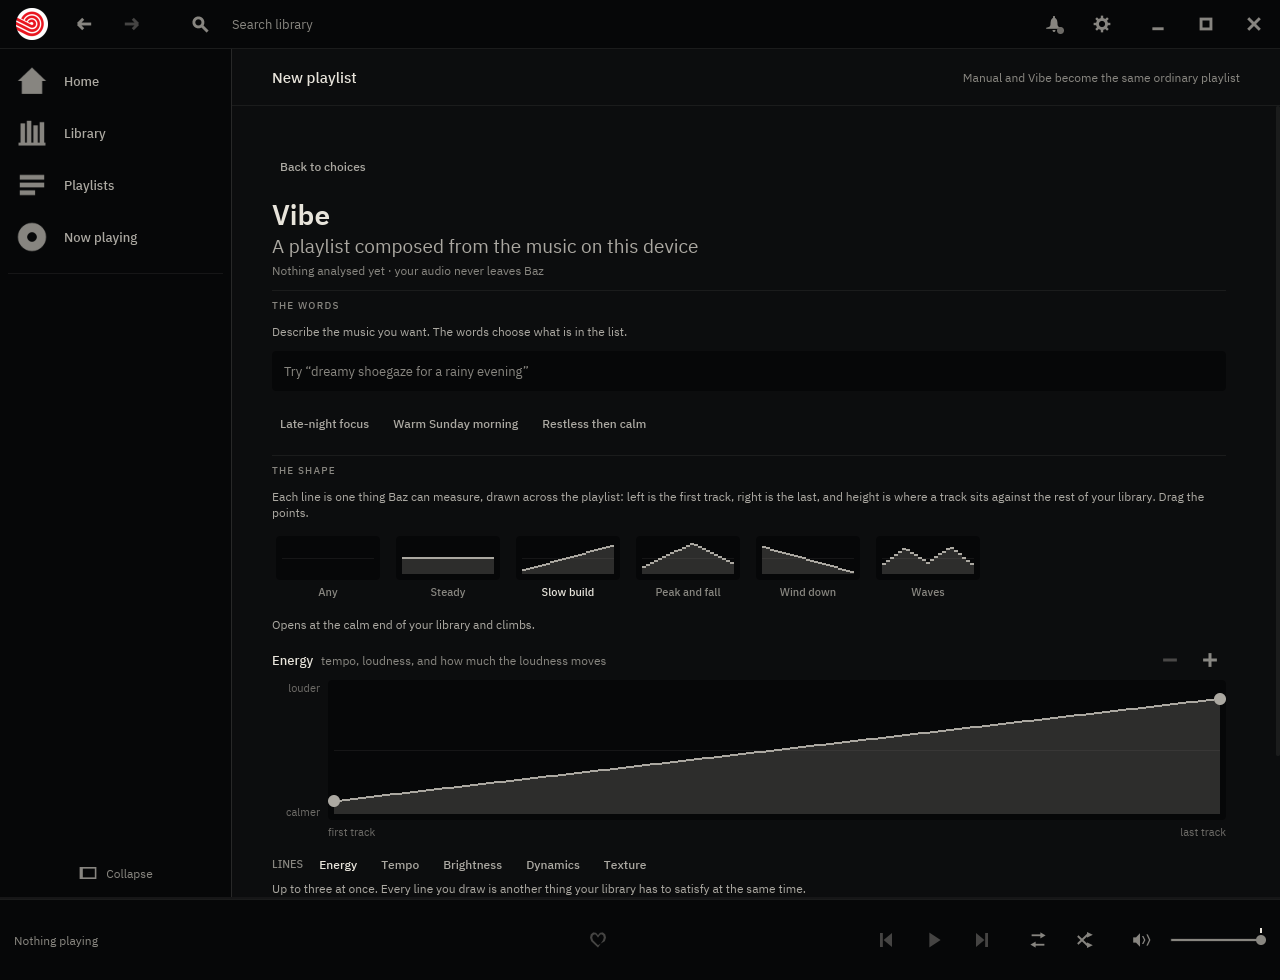
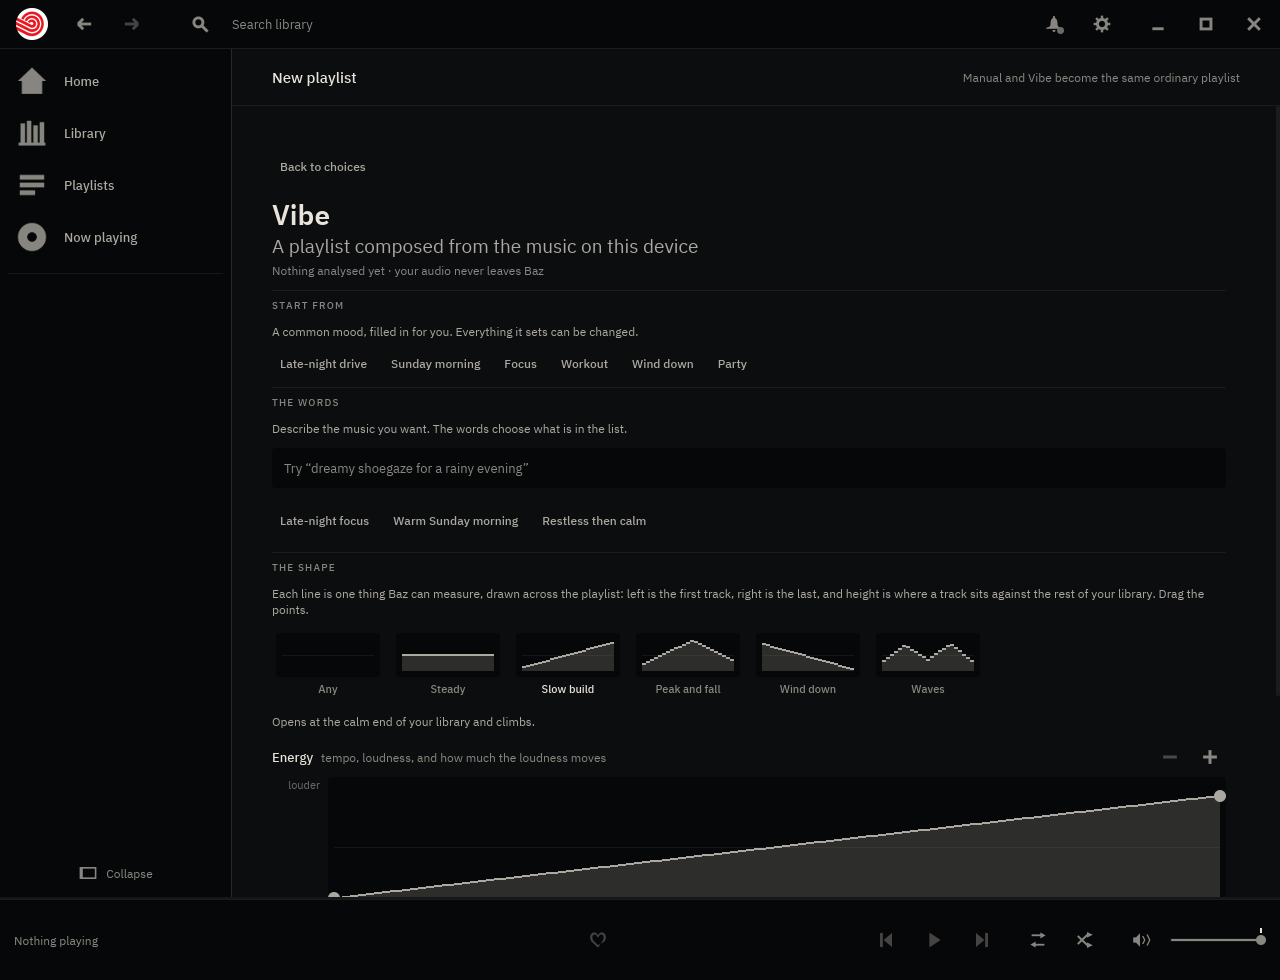
Six moods to start from, and the frames that show them
The contour form asked a listener to draw before it told them what a
drawing was for. `Recipe::ALL` puts six named starting points ahead of
it — an evening wind-down, a morning lift, focus, a drive, a late room,
a workout — each one a request line and a shape, so the first press
composes something rather than asking for a decision nobody has the
vocabulary for yet.

A recipe stops claiming the form the moment either half changes: the
chip is a starting point, not a mode, and `a_recipe_fills_the_request_
and_stops_claiming_it_the_moment_it_changes` is what holds that.

The capture frames are re-shot from the real binary against the varied
fixture, so the section is photographed with recipes present.

diff --git a/crates/baz/src/vibe.rs b/crates/baz/src/vibe.rs
@@ -328,6 +328,78 @@ impl Shape {
     }
 }
 
+/// **A recipe: a mood you can start from.**
+///
+/// The owner: *"we should have like 5-6 standard recipes — as part of the
+/// wizard we should be asking users if they want to make a preset one. as
+/// long as the presets are some really common moods and themes."*
+///
+/// A recipe is **words + a shape + a length**, which is the whole of a
+/// request, so pressing one fills the form and changes nothing else: every
+/// field stays editable, and a listener can take the words and redraw the
+/// line, or keep the line and retype the words. It is a starting point and
+/// never a mode.
+///
+/// The six are the moods people actually ask for rather than the ones that
+/// demonstrate the machinery. Each one's words are ordinary language — they
+/// go to the same text tower a typed request does — and each one's shape is
+/// one of the drawn presets, so a recipe explains itself in the picture as
+/// well as in its name.
+#[derive(Debug, Clone, Copy, PartialEq)]
+pub(crate) struct Recipe {
+    pub(crate) label: &'static str,
+    pub(crate) prompt: &'static str,
+    shape: usize,
+    pub(crate) length: MixLength,
+}
+
+impl Recipe {
+    /// Every recipe the wizard offers, in the order it offers them.
+    pub(crate) const ALL: [Self; 6] = [
+        Self {
+            label: "Late-night drive",
+            prompt: "warm hypnotic music for driving at night",
+            shape: 1,
+            length: MixLength::Hour,
+        },
+        Self {
+            label: "Sunday morning",
+            prompt: "gentle unhurried music for a slow morning",
+            shape: 2,
+            length: MixLength::Hour,
+        },
+        Self {
+            label: "Focus",
+            prompt: "calm instrumental music without vocals for concentrating",
+            shape: 1,
+            length: MixLength::NinetyMinutes,
+        },
+        Self {
+            label: "Workout",
+            prompt: "fast loud driving music with a hard pulse",
+            shape: 2,
+            length: MixLength::HalfHour,
+        },
+        Self {
+            label: "Wind down",
+            prompt: "quiet soft slow music for the end of the day",
+            shape: 4,
+            length: MixLength::HalfHour,
+        },
+        Self {
+            label: "Party",
+            prompt: "upbeat energetic danceable music",
+            shape: 3,
+            length: MixLength::TwoHours,
+        },
+    ];
+
+    /// The drawn shape this recipe starts from.
+    pub(crate) fn shape(self) -> Shape {
+        Shape::ALL[self.shape]
+    }
+}
+
 /// How many bands the library's own distribution is drawn in behind the line.
 ///
 /// Only the full build has a library to describe — a light one has no
@@ -564,6 +636,29 @@ impl State {
     /// The pointer entered or left one row of the preview.
     pub(crate) fn hover_row(&mut self, row: Option<usize>) {
         self.hovered_row = row;
+    }
+
+    /// **Start from a recipe**: its words, its shape and its length, all of
+    /// which remain editable. Nothing else is touched — a listener who has
+    /// already drawn extra lines keeps them, shaped by the recipe.
+    pub(crate) fn start_from(&mut self, recipe: Recipe) {
+        self.set_prompt(recipe.prompt);
+        self.set_shape(recipe.shape());
+        self.set_length(recipe.length);
+    }
+
+    /// Which recipe the request currently matches, if any — so the row can
+    /// light the one you started from and stop lighting it the moment you
+    /// change the words.
+    pub(crate) fn recipe(&self) -> Option<usize> {
+        Recipe::ALL.iter().position(|recipe| {
+            self.prompt == recipe.prompt
+                && self.length == recipe.length
+                && self
+                    .contour
+                    .lane(0)
+                    .is_some_and(|lane| lane.points == recipe.shape().points())
+        })
     }
 
     /// **Load a named shape onto every line.** A shape is a shape: asking for
@@ -1379,6 +1474,50 @@ mod tests {
                     _ => panic!("{} is a line on one side only at {at}", shape.label),
                 }
             }
+        }
+    }
+
+    /// **A recipe fills the form and leaves it editable**, which is the whole
+    /// of what makes it a starting point rather than a mode.
+    #[test]
+    fn a_recipe_fills_the_request_and_stops_claiming_it_the_moment_it_changes() {
+        let mut state = State::default();
+        assert_eq!(
+            state.recipe(),
+            None,
+            "nothing is a recipe until one is pressed"
+        );
+        for (index, recipe) in Recipe::ALL.iter().enumerate() {
+            state.start_from(*recipe);
+            assert_eq!(state.prompt, recipe.prompt);
+            assert_eq!(state.length, recipe.length);
+            assert_eq!(points(&state), recipe.shape().points());
+            assert_eq!(
+                state.recipe(),
+                Some(index),
+                "{} does not recognise itself",
+                recipe.label
+            );
+        }
+        // Change any one of the three and it is the listener's request.
+        state.start_from(Recipe::ALL[0]);
+        state.set_prompt("something else entirely");
+        assert_eq!(state.recipe(), None);
+        state.start_from(Recipe::ALL[0]);
+        state.drag_contour(0, 0, 0.0, 1.9);
+        assert_eq!(state.recipe(), None);
+        state.start_from(Recipe::ALL[0]);
+        state.set_length(MixLength::TwoHours);
+        assert_eq!(state.recipe(), None);
+
+        // Every recipe says something to the model and draws a real line.
+        for recipe in Recipe::ALL {
+            assert!(
+                recipe.prompt.split_whitespace().count() >= 4,
+                "{} asks the model for too little",
+                recipe.label
+            );
+            assert!(!recipe.shape().points().is_empty(), "{}", recipe.label);
         }
     }
 

diff --git a/crates/baz/src/views/new_playlist.rs b/crates/baz/src/views/new_playlist.rs
@@ -192,6 +192,17 @@ fn vibe_form<'a>(
         beside_facts: None,
     }));
 
+    // 0. **A mood to start from**, asked before anything is typed. A recipe
+    //    fills the words, the shape and the length and changes nothing else,
+    //    so the form it leaves behind is the one a listener would have filled
+    //    in themselves — and every field stays theirs to change.
+    form = form
+        .push(views::section_rule("Start from"))
+        .push(hint(
+            "A common mood, filled in for you. Everything it sets can be changed.",
+        ))
+        .push(recipes_row(state));
+
     // 1. **The words** — what goes in.
     form = form
         .push(views::section_rule("The words"))
@@ -548,6 +559,32 @@ fn stepper(
     .padding(theme::GAP_XS)
     .style(move |_theme| theme::tooltip(room))
     .into()
+}
+
+/// **The moods on offer**, as a row of pressable words. The one the request
+/// currently matches is lit, and it stops being lit the moment a word or a
+/// point is changed — because from then on the request is the listener's
+/// rather than the recipe's.
+fn recipes_row(state: &crate::vibe::State) -> Element<'_, Message> {
+    let room = theme::active();
+    let current = state.recipe();
+    let mut offered = row![].spacing(theme::GAP_SM);
+    for (index, recipe) in crate::vibe::Recipe::ALL.iter().enumerate() {
+        let lit = current == Some(index);
+        offered = offered.push(
+            button(
+                text(recipe.label)
+                    .size(theme::SIZE_META)
+                    .line_height(theme::LEADING_META)
+                    .font(theme::MEDIUM)
+                    .color(if lit { room.paper } else { room.paper_dim }),
+            )
+            .padding(theme::pad(theme::GAP_XS, theme::GAP_SM))
+            .style(move |_theme, status| theme::tile(room, status, lit))
+            .on_press(Message::VibeRecipe(index)),
+        );
+    }
+    offered.into()
 }
 
 /// **The shapes, as pictures** — each preset drawn by the same widget that

diff --git a/crates/baz/src/app.rs b/crates/baz/src/app.rs
@@ -622,6 +622,10 @@ pub(crate) enum Message {
     /// *"when we hover the playlist items it is showing where on the curve
     /// it's meant to be… so a person can see it really worked."*
     VibePreviewHovered(Option<usize>),
+    /// **Start from one of the offered moods** — its words, its shape and its
+    /// length, all of which stay editable. The owner: *"as part of the wizard
+    /// we should be asking users if they want to make a preset one."*
+    VibeRecipe(usize),
     /// Load one of the drawn shapes over the current line.
     ContourShape(usize),
     /// Give one line another turn, or take its last one back.
@@ -4023,6 +4027,18 @@ impl App {
             Message::VibePreviewHovered(row) => {
                 if let Screen::Shelf(state) = &mut self.screen {
                     state.vibe.hover_row(*row);
+                }
+                Some(Task::none())
+            }
+            Message::VibeRecipe(index) => {
+                if let Screen::Shelf(state) = &mut self.screen
+                    && let Some(recipe) = crate::vibe::Recipe::ALL.get(*index)
+                {
+                    state.vibe.start_from(*recipe);
+                    // The suggested name follows the words, exactly as typing
+                    // them would — a recipe is the form filled in, not a
+                    // second way of asking.
+                    self.playlists.suggest_creation_name(recipe.prompt);
                 }
                 Some(Task::none())
             }

diff --git a/CHANGELOG.md b/CHANGELOG.md
@@ -34,6 +34,10 @@ describe.
 
 ### Added
 
+- **Six moods to start from.** The Vibe route asks before you type: `Late-night
+  drive`, `Sunday morning`, `Focus`, `Workout`, `Wind down`, `Party`. Each
+  fills in the words, the shape and the length, and every one of them stays
+  yours to change.
 - **A sleep timer.** Settings → Playback: 15 minutes to two hours, with the
   time remaining shown while it runs. It *pauses* — the run, the position and
   the queue stay exactly where they are, so the next press carries on — and it
